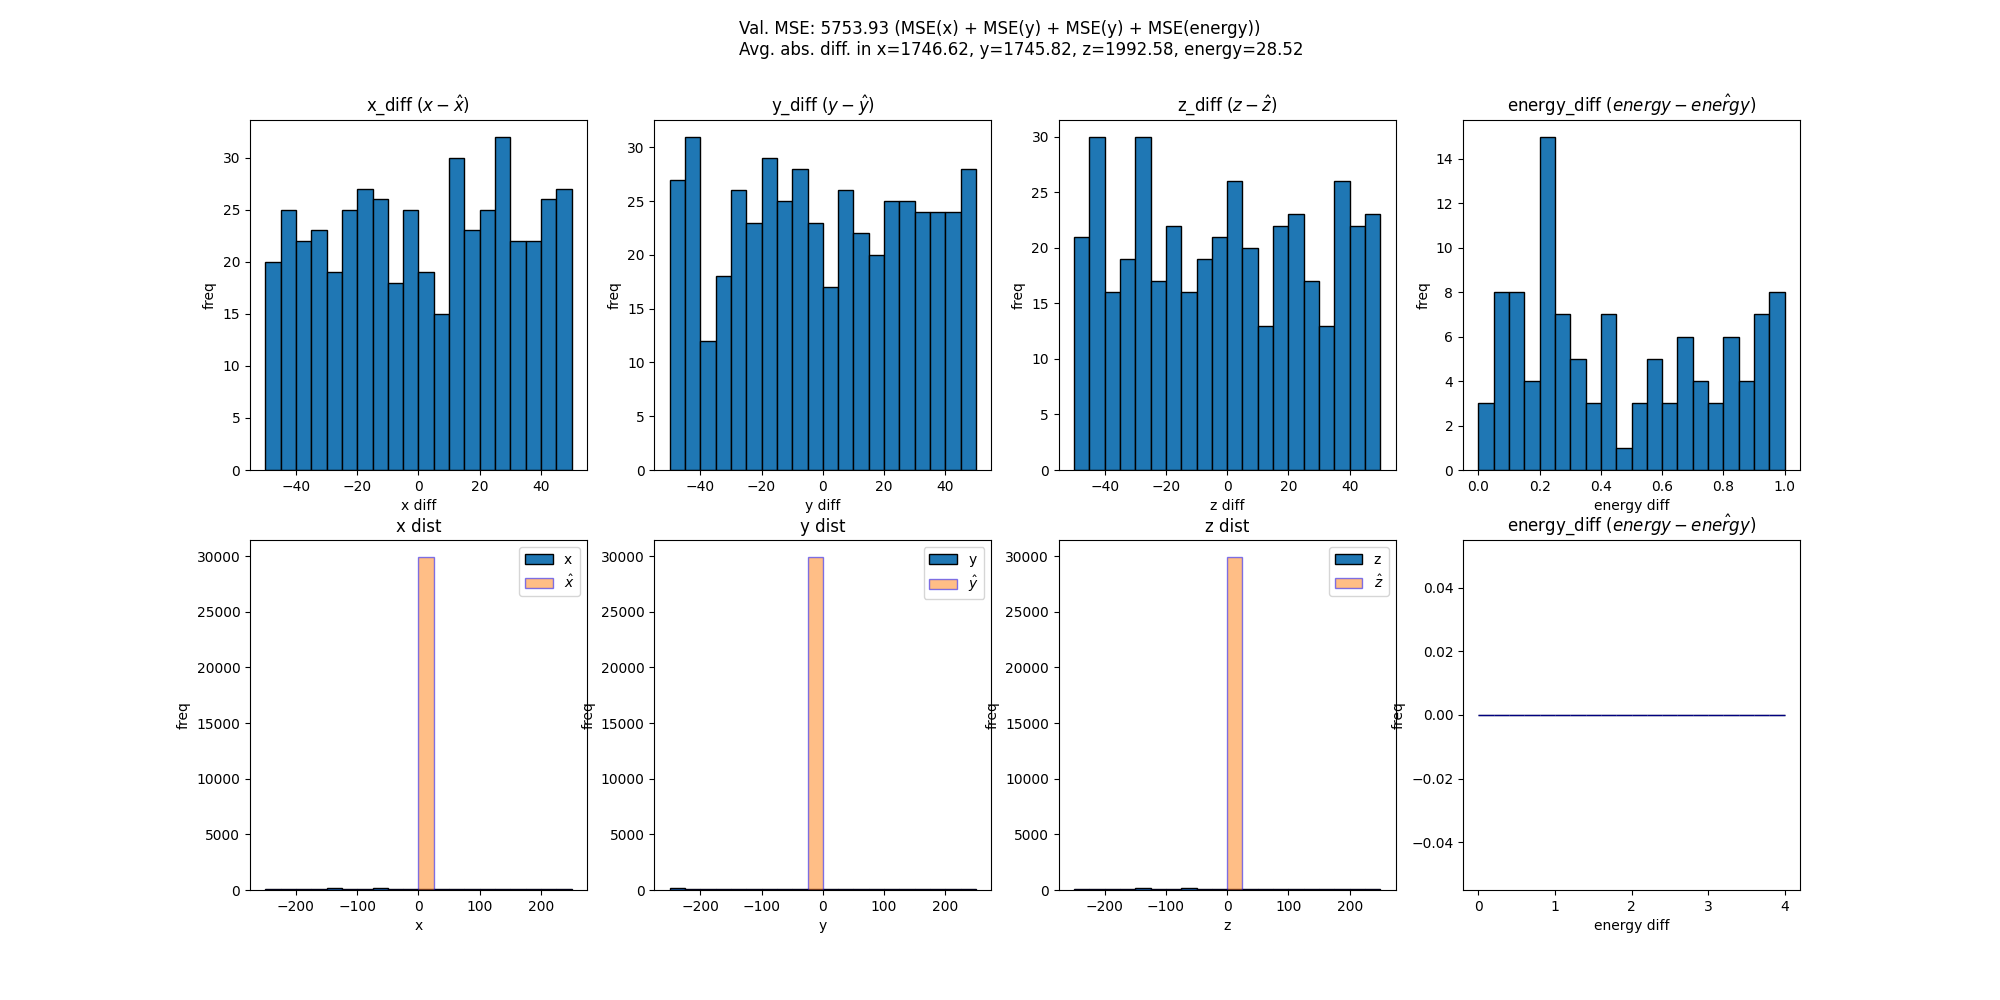
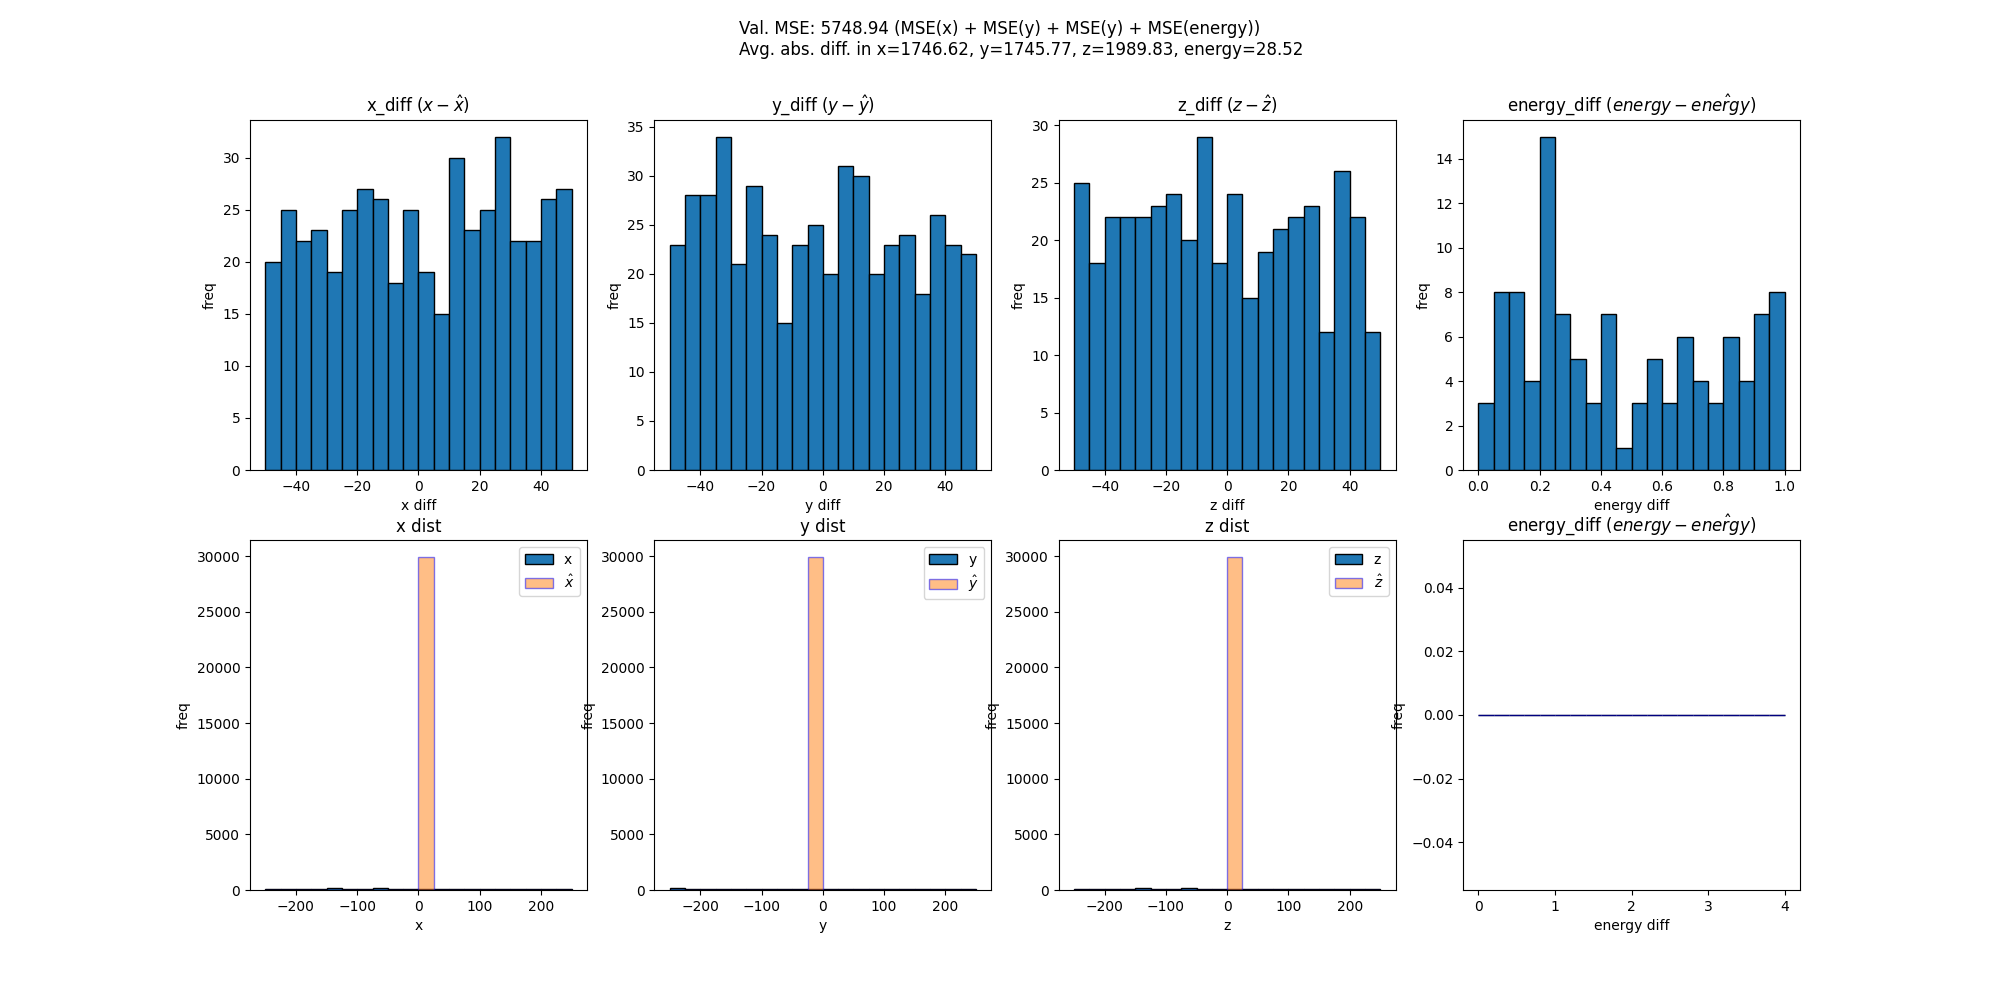
Small changes to model but still doesn't seem connected

diff --git a/train_cgra.py b/train_cgra.py
@@ -43,7 +43,7 @@ sys_bits = SYS_BITS(x=8, k=8, b=16)
 NB_EPOCH = 2
 BATCH_SIZE = 64
 VALIDATION_SPLIT = 0.1
-TRAINING_EPOCHS = 30
+TRAINING_EPOCHS = 2
 
 pmtxyz = get_pmtxyz("/home/amigala/PointNET_PMT_keras/data/pmt_xyz.dat")
 data_npz = np.load('/home/amigala/PointNET_PMT_keras/data/train_X_y_ver_all_xyz_energy.npz')
@@ -89,7 +89,7 @@ class UserModel(XModel):
                 b_int_bits=0,
                 filters=64,
                 kernel_size=1,
-                act=XActivation(sys_bits=sys_bits, o_int_bits=0, type='relu', slope=0),),
+                act=XActivation(sys_bits=sys_bits, o_int_bits=0, type='relu'),),
             #core=XDense(
             #    k_int_bits=0,
             #    b_int_bits=0,
@@ -104,7 +104,7 @@ class UserModel(XModel):
                 b_int_bits=0,
                 filters=int(128/dim_reduce_factor),
                 kernel_size=1,
-                act=XActivation(sys_bits=sys_bits, o_int_bits=0, type='relu', slope=0),),
+                act=XActivation(sys_bits=sys_bits, o_int_bits=0, type='relu'),),
             #core=XDense(
             #    k_int_bits=0,
             #    b_int_bits=0,
@@ -118,13 +118,14 @@ class UserModel(XModel):
                 b_int_bits=0,
                 filters=int(1024 / dim_reduce_factor),
                 kernel_size=1,
-                act=XActivation(sys_bits=sys_bits, o_int_bits=0, type='relu', slope=0),),
+                act=XActivation(sys_bits=sys_bits, o_int_bits=0, type="relu")
+                ),
             pool=XPool(
                 type='avg',
                 pool_size=(2126,1),
                 strides=(2126,1),
                 padding='same',
-                act=XActivation(sys_bits=sys_bits, o_int_bits=0, type=None),),
+                act=XActivation(sys_bits=sys_bits, o_int_bits=0, type="relu"),),
             flatten=True
             #core=XDense(
             #    k_int_bits=0,
@@ -139,7 +140,8 @@ class UserModel(XModel):
                 k_int_bits=0,
                 b_int_bits=0,
                 units=int(512 / dim_reduce_factor),
-                act=XActivation(sys_bits=sys_bits, o_int_bits=0, type='relu', slope=0)),
+                act=XActivation(sys_bits=sys_bits, o_int_bits=0, type='relu')
+            )
         )
 
         self.b4 = XBundle( 
@@ -147,7 +149,8 @@ class UserModel(XModel):
                 k_int_bits=0,
                 b_int_bits=0,
                 units=int(128 / dim_reduce_factor),
-                act=XActivation(sys_bits=sys_bits, o_int_bits=0, type='relu', slope=0)),
+                act=XActivation(sys_bits=sys_bits, o_int_bits=0, type='relu')
+            )
         )
 
         self.b5 = XBundle(
@@ -155,7 +158,7 @@ class UserModel(XModel):
                 k_int_bits=0,
                 b_int_bits=0,
                 units=out_dim,
-                act=XActivation(sys_bits=sys_bits, o_int_bits=0, type='relu', slope=0.125)),
+                act=XActivation(sys_bits=sys_bits, o_int_bits=0, type='relu')),
             # flatten=True
         )
 
@@ -177,6 +180,31 @@ user_model = UserModel(sys_bits=sys_bits, x_int_bits=0)
 x = user_model(x_in)
 
 model = Model(inputs=[x_in], outputs=[x])
+
+'''
+Summarize model
+'''
+print(model.submodules)
+#print(y[:5], model(X_tf[:5]))
+for layer in model.submodules:
+    try:
+        print(layer.summary())
+        for w, weight in enumerate(layer.get_weights()):
+                print(layer.name, w, weight.shape)
+    except:
+        pass
+# print_qstats(model.layers[1])
+
+def summary_plus(layer, i=0):
+    if hasattr(layer, 'layers'):
+        if i != 0: 
+            layer.summary()
+        for l in layer.layers:
+            i += 1
+            summary_plus(l, i=i)
+
+print(summary_plus(model)) # OK 
+model.summary(expand_nested=True)
 
 
 # '''
@@ -380,29 +408,6 @@ parser.add_argument('--xyz_energy', action="store_true")
 args = parser.parse_args()
 
 plot_reg(diff=diff, dist=dist, total_val_loss=total_val_loss, abs_diff=abs_diff, save_name=save_name, args=args)
-
-
-print(model.submodules)
-#print(y[:5], model(X_tf[:5]))
-for layer in model.submodules:
-    try:
-        print(layer.summary())
-        for w, weight in enumerate(layer.get_weights()):
-                print(layer.name, w, weight.shape)
-    except:
-        pass
-# print_qstats(model.layers[1])
-
-def summary_plus(layer, i=0):
-    if hasattr(layer, 'layers'):
-        if i != 0: 
-            layer.summary()
-        for l in layer.layers:
-            i += 1
-            summary_plus(l, i=i)
-
-print(summary_plus(model)) # OK 
-model.summary(expand_nested=True)
 
 
 '''
